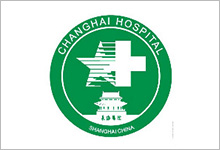
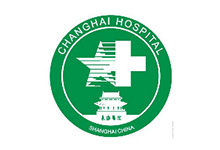
new

Changed region(s): [[0.0, 0.0, 1.0, 1.0]]

diff --git a/SRC/tpl/Home/lanrain/Huai_lists.html b/SRC/tpl/Home/lanrain/Huai_lists.html
@@ -24,7 +24,7 @@
                                   
                                 <a href="javascript:void(0)"><h4>{lanrain:$val.hospital}{lanrain:$val.keshi}</h4></a>
                             </div>
-                            <a href="javascript:void(0)" class="resource_k_pic"><img width="181" height="192" src="{lanrain:$val.img}" alt="" /></a>
+                            <a href="javascript:void(0)" class="resource_k_pic"><img width="140" height="192" src="{lanrain:$val.img}" alt="" /></a>
                             <div style=" height:0px;"><div class="keep" style="top: 155px;"> </div></div>
                             <div style="top: 1px; position: relative; margin-left: -4px;" class="opa">
                                 <p class="resource_k_word"></p>
